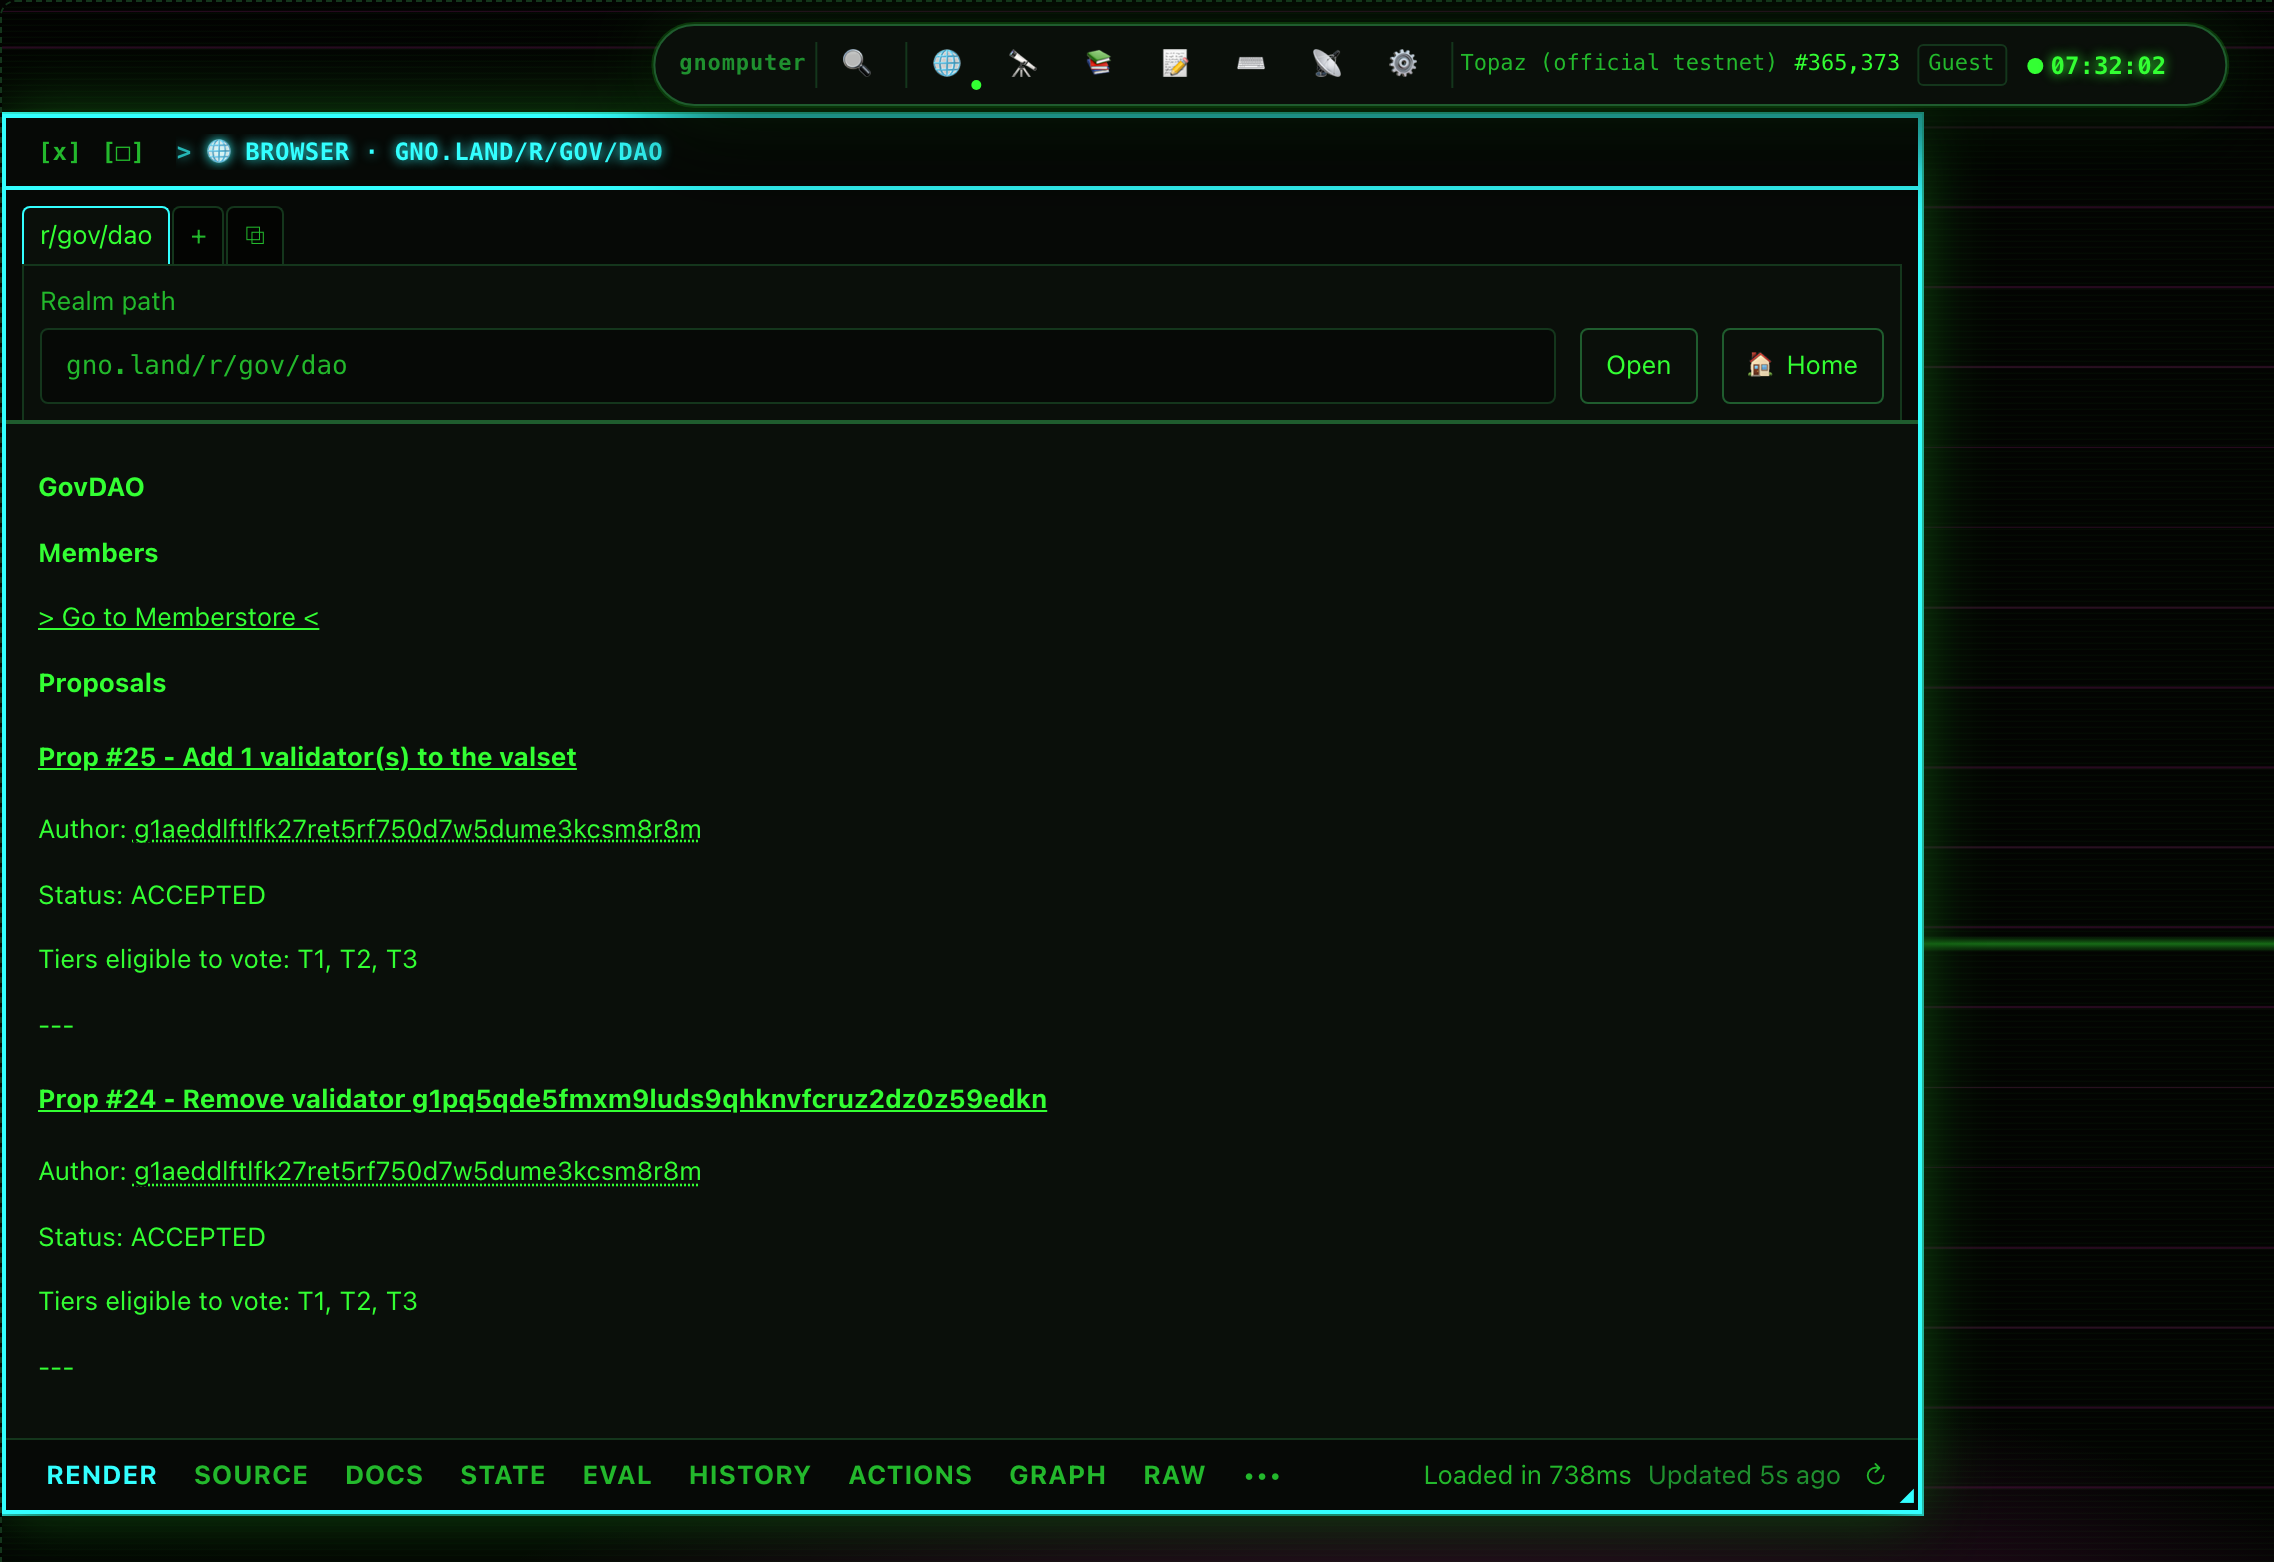
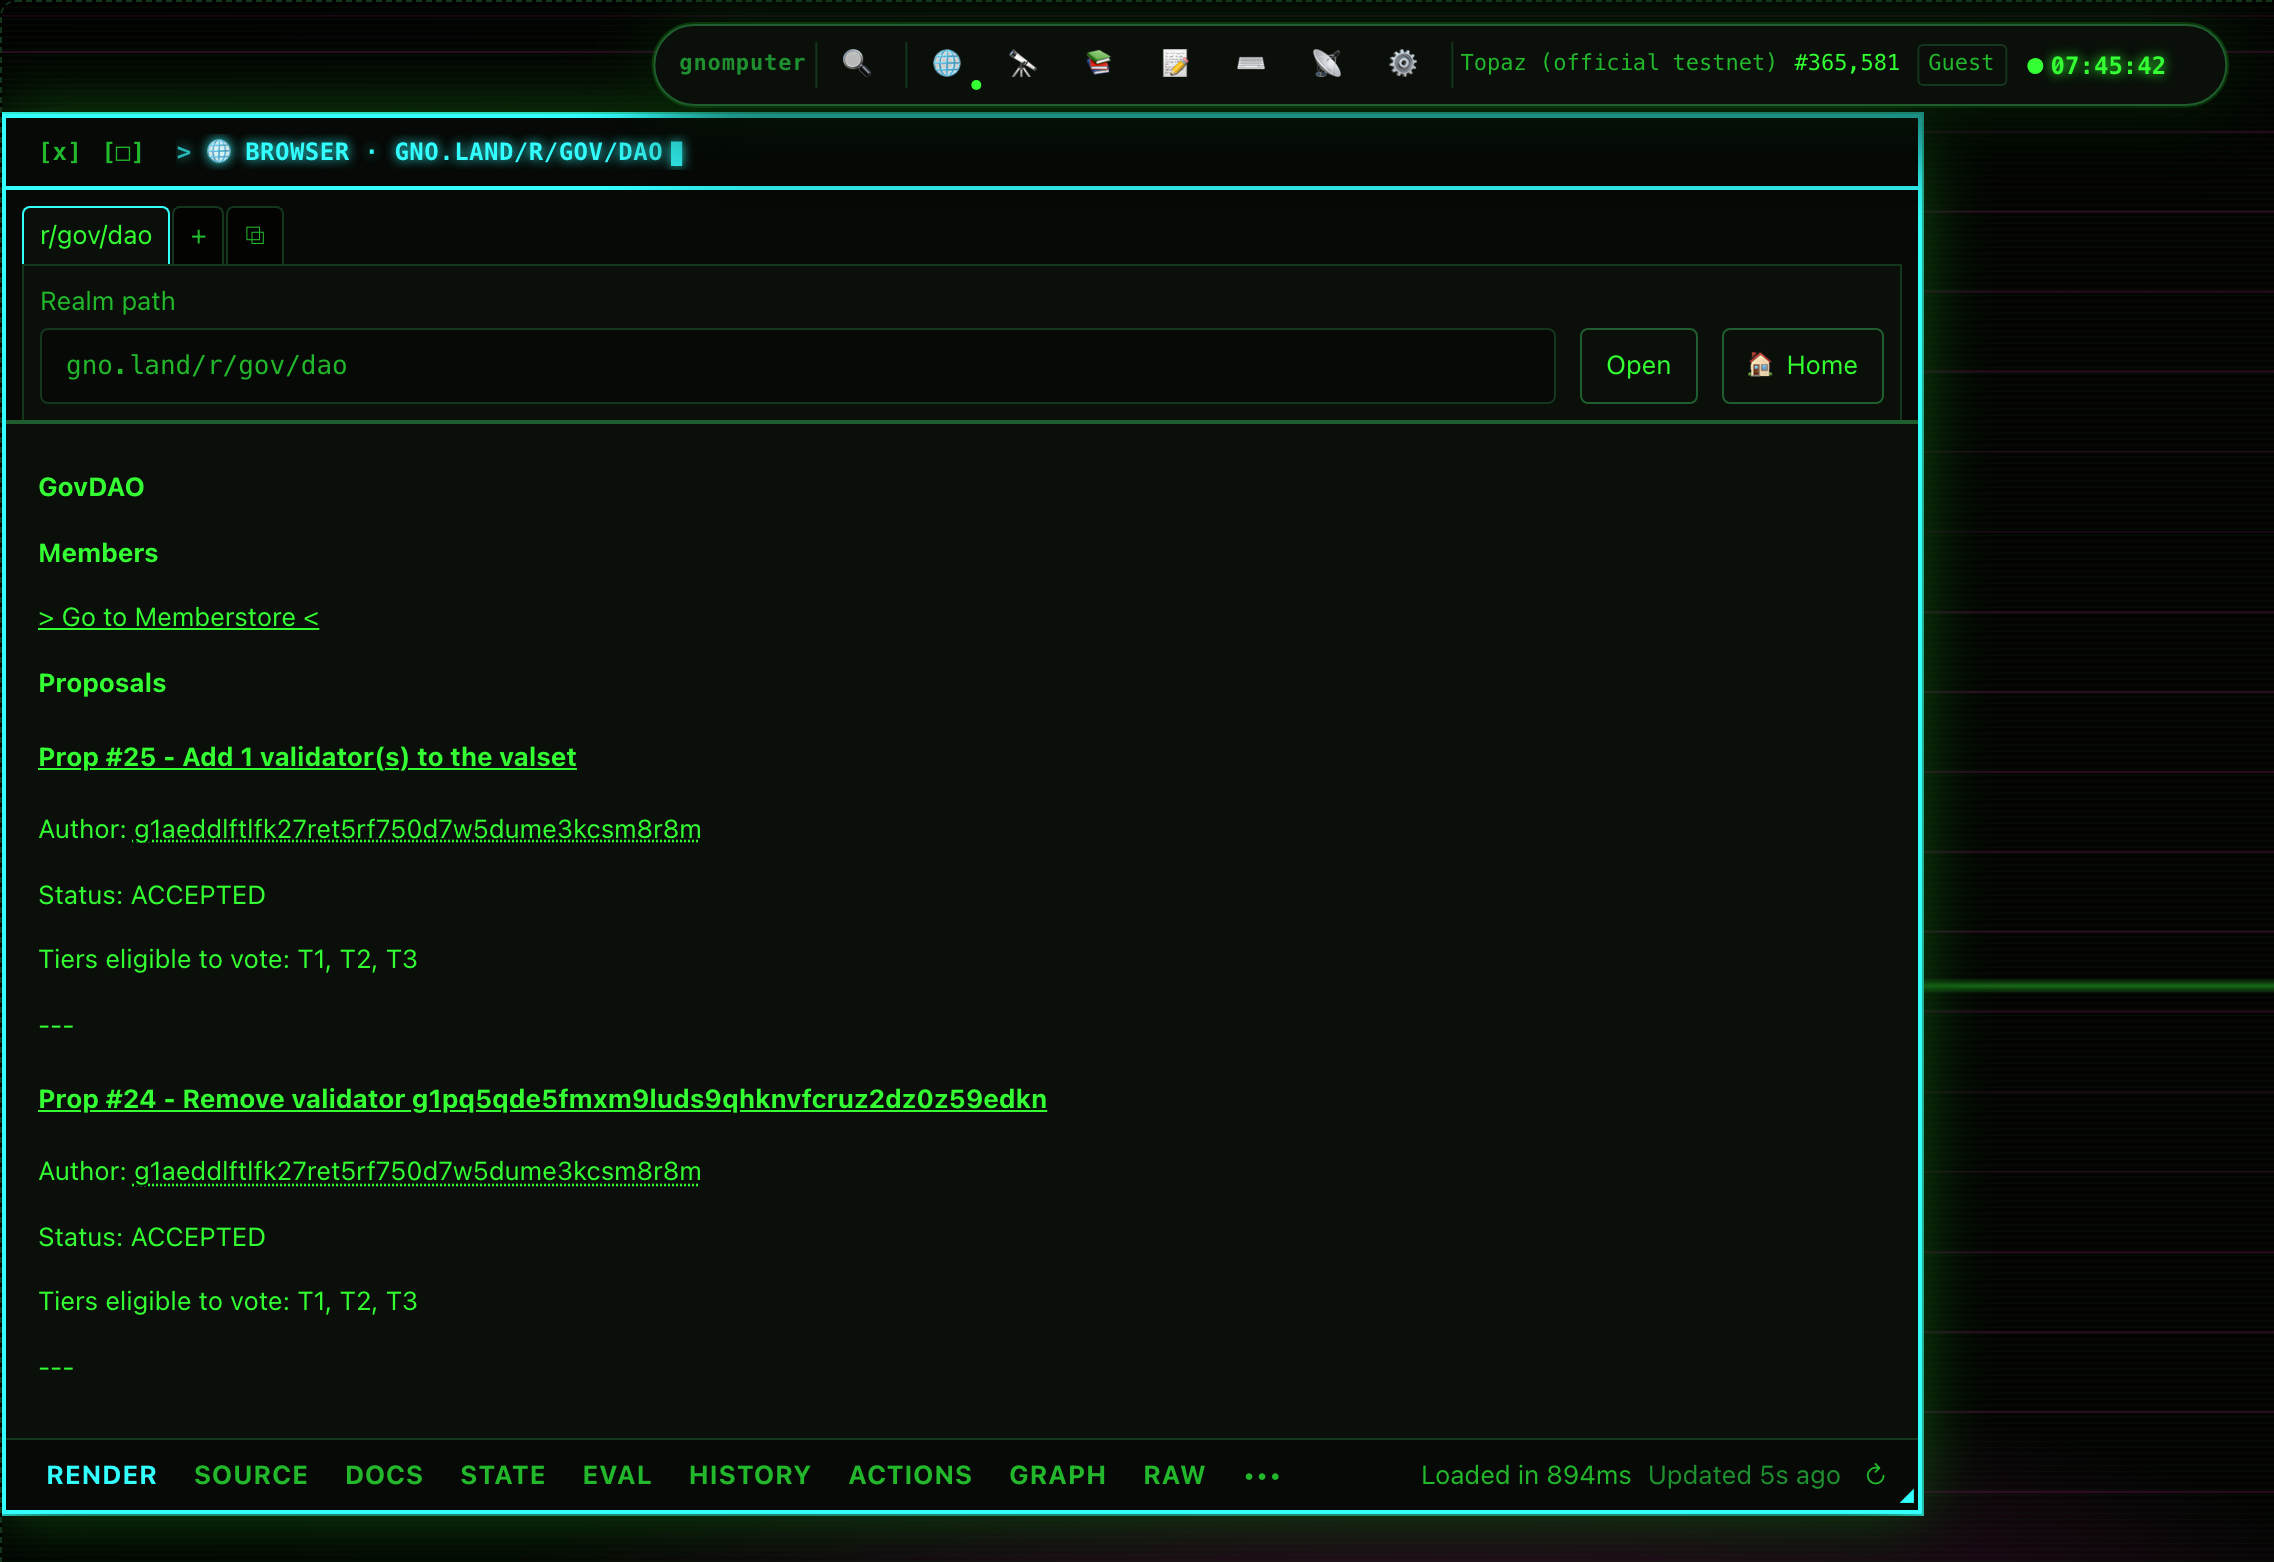
docs: commit the screenshot capture script
Screenshots rot. The UI moves, the images do not, and a stale screenshot
is a false claim in the same way stale prose is — harder to notice,
because nobody re-reads an image.

This is the script that produced the three in the README, so refreshing
them is one command rather than an afternoon of remembering how they
were framed. It also documents the framing decisions that are not
obvious: r/gov/dao as the hero realm because it reliably has real
content, a .gno file rather than the README for the source shot because
the point is syntax highlighting, the crop to island-plus-windows so
there is no dead desktop, and 2x for retina.

It throws if the cypherpunk theme fails to apply rather than quietly
shipping a screenshot of the wrong theme — which is exactly what
happened on the first attempt, because the theme is stored as a raw id
and I had guessed a JSON-wrapped key.

Takes a URL argument, so it can run against localhost during development
instead of only the deployed site. Also the starting point for the
recorded walkthrough later.

Changed region(s): [[0.843, 0.5839, 1.0, 0.6453], [0.6245, 0.9219, 0.6869, 0.9526], [0.281, 0.0922, 0.3122, 0.1229]]

diff --git a/README.md b/README.md
@@ -80,6 +80,9 @@ pnpm typecheck && pnpm lint && pnpm test && pnpm build
 pnpm --filter @gnomputer/web e2e    # Playwright, against a local mock chain
 ```
 
+<sub>Screenshots are generated from a running app, never staged — refresh them with
+`node scripts/capture-screenshots.mjs` from `apps/web`.</sub>
+
 ## Docs
 
 - **[CONTRIBUTING.md](CONTRIBUTING.md)** — repo layout, the architecture rules CI
